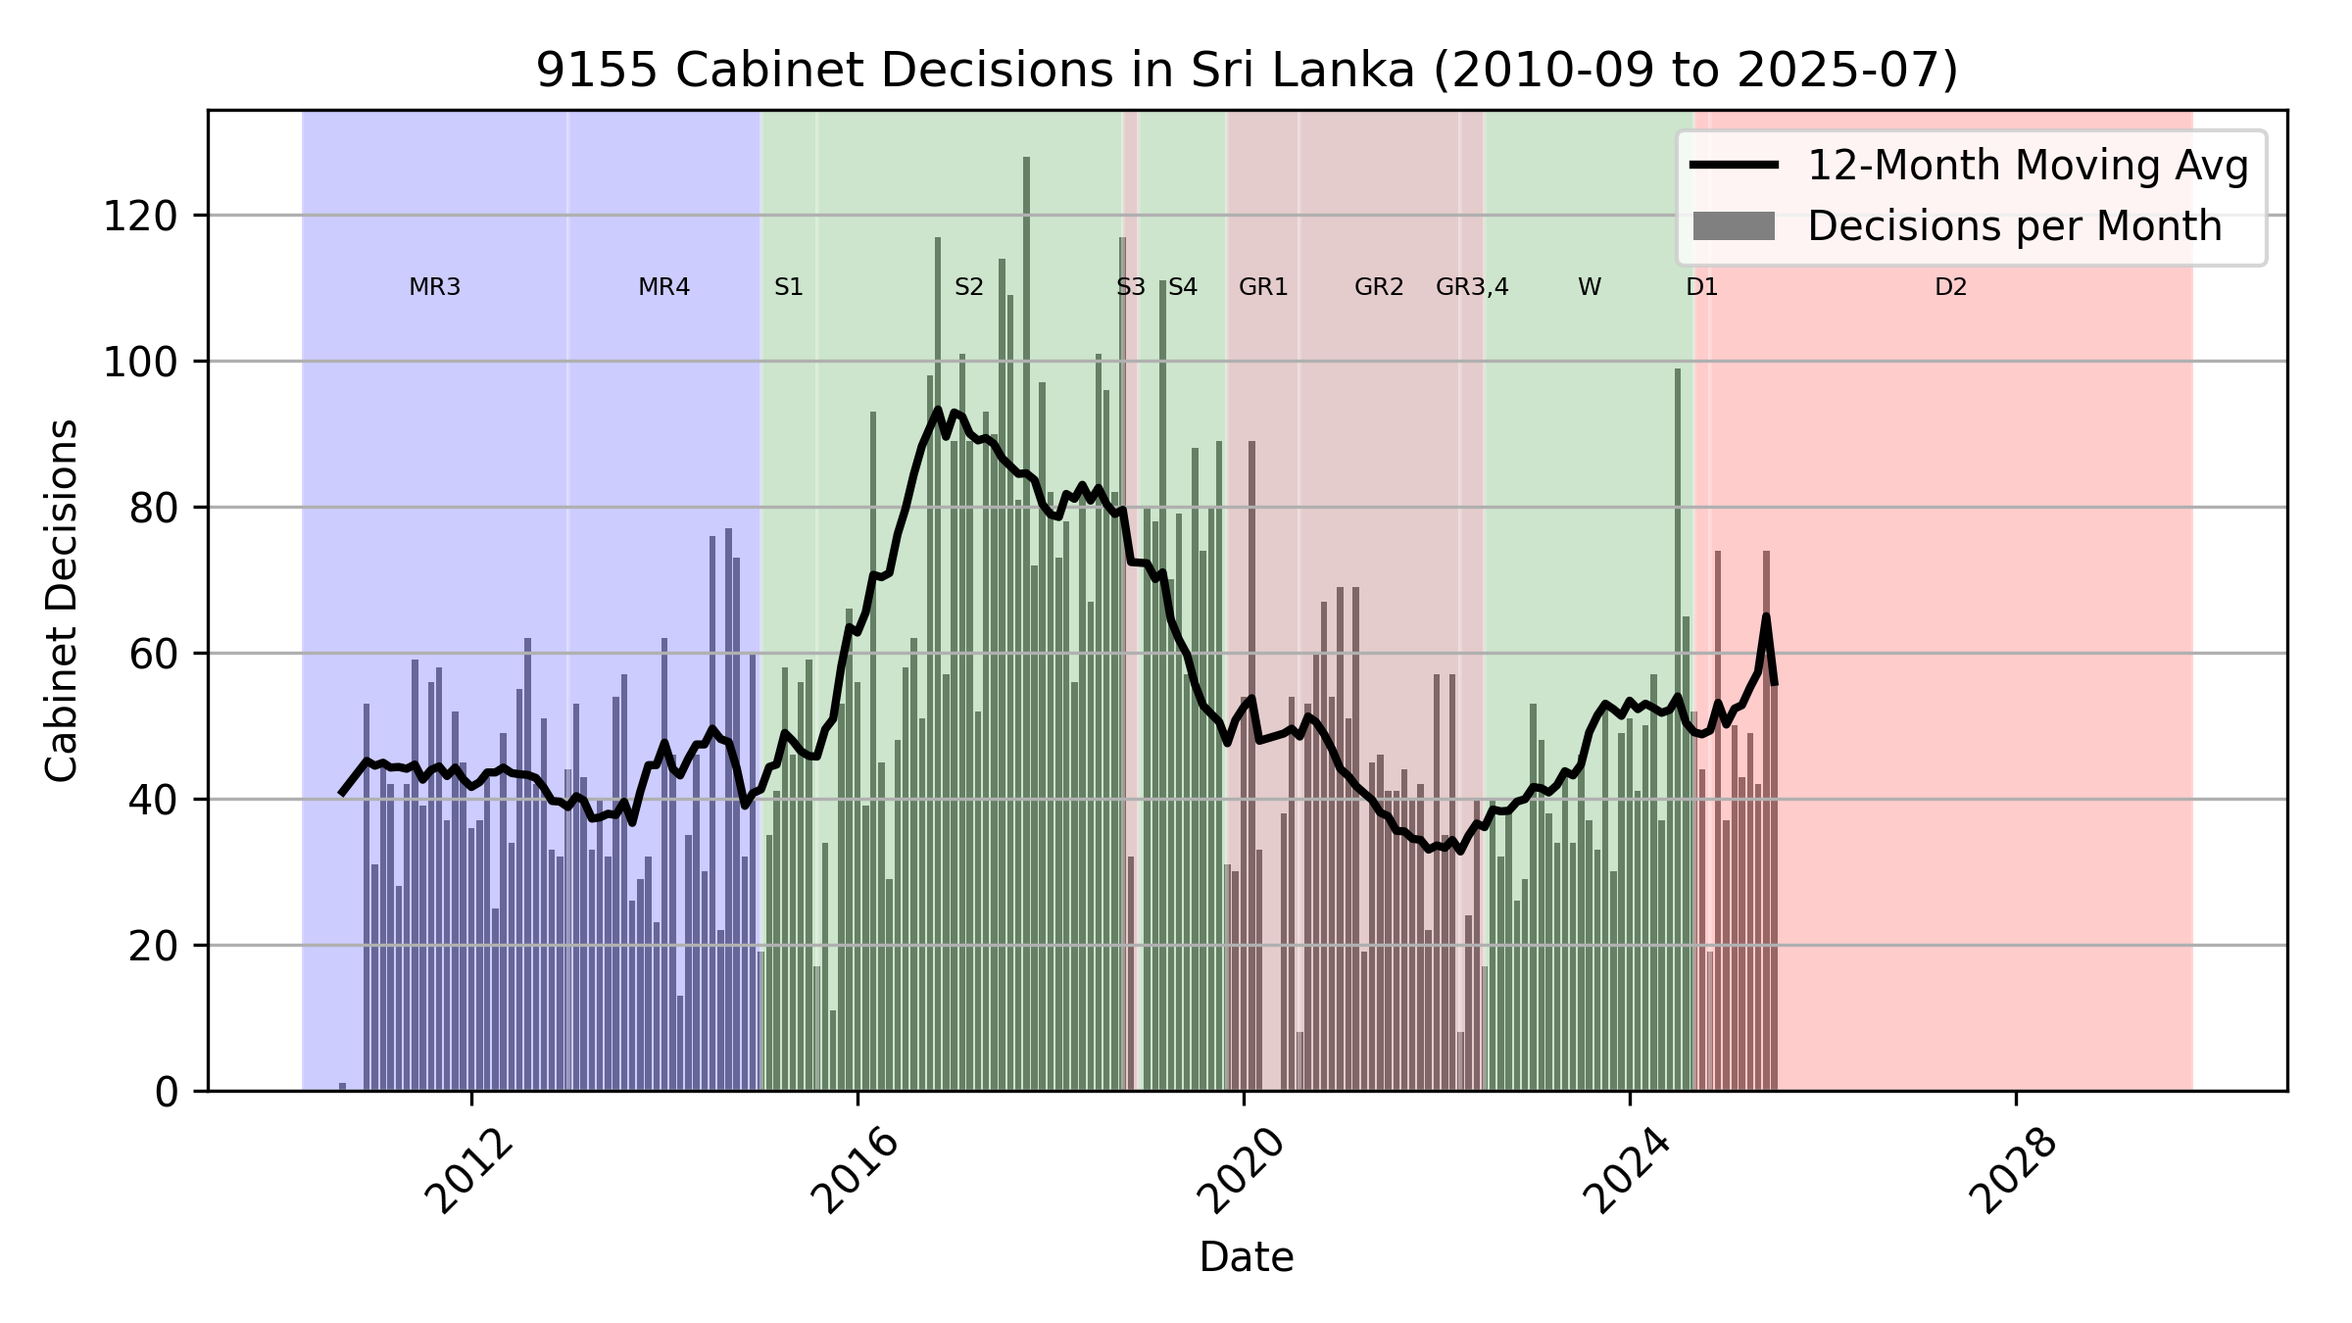
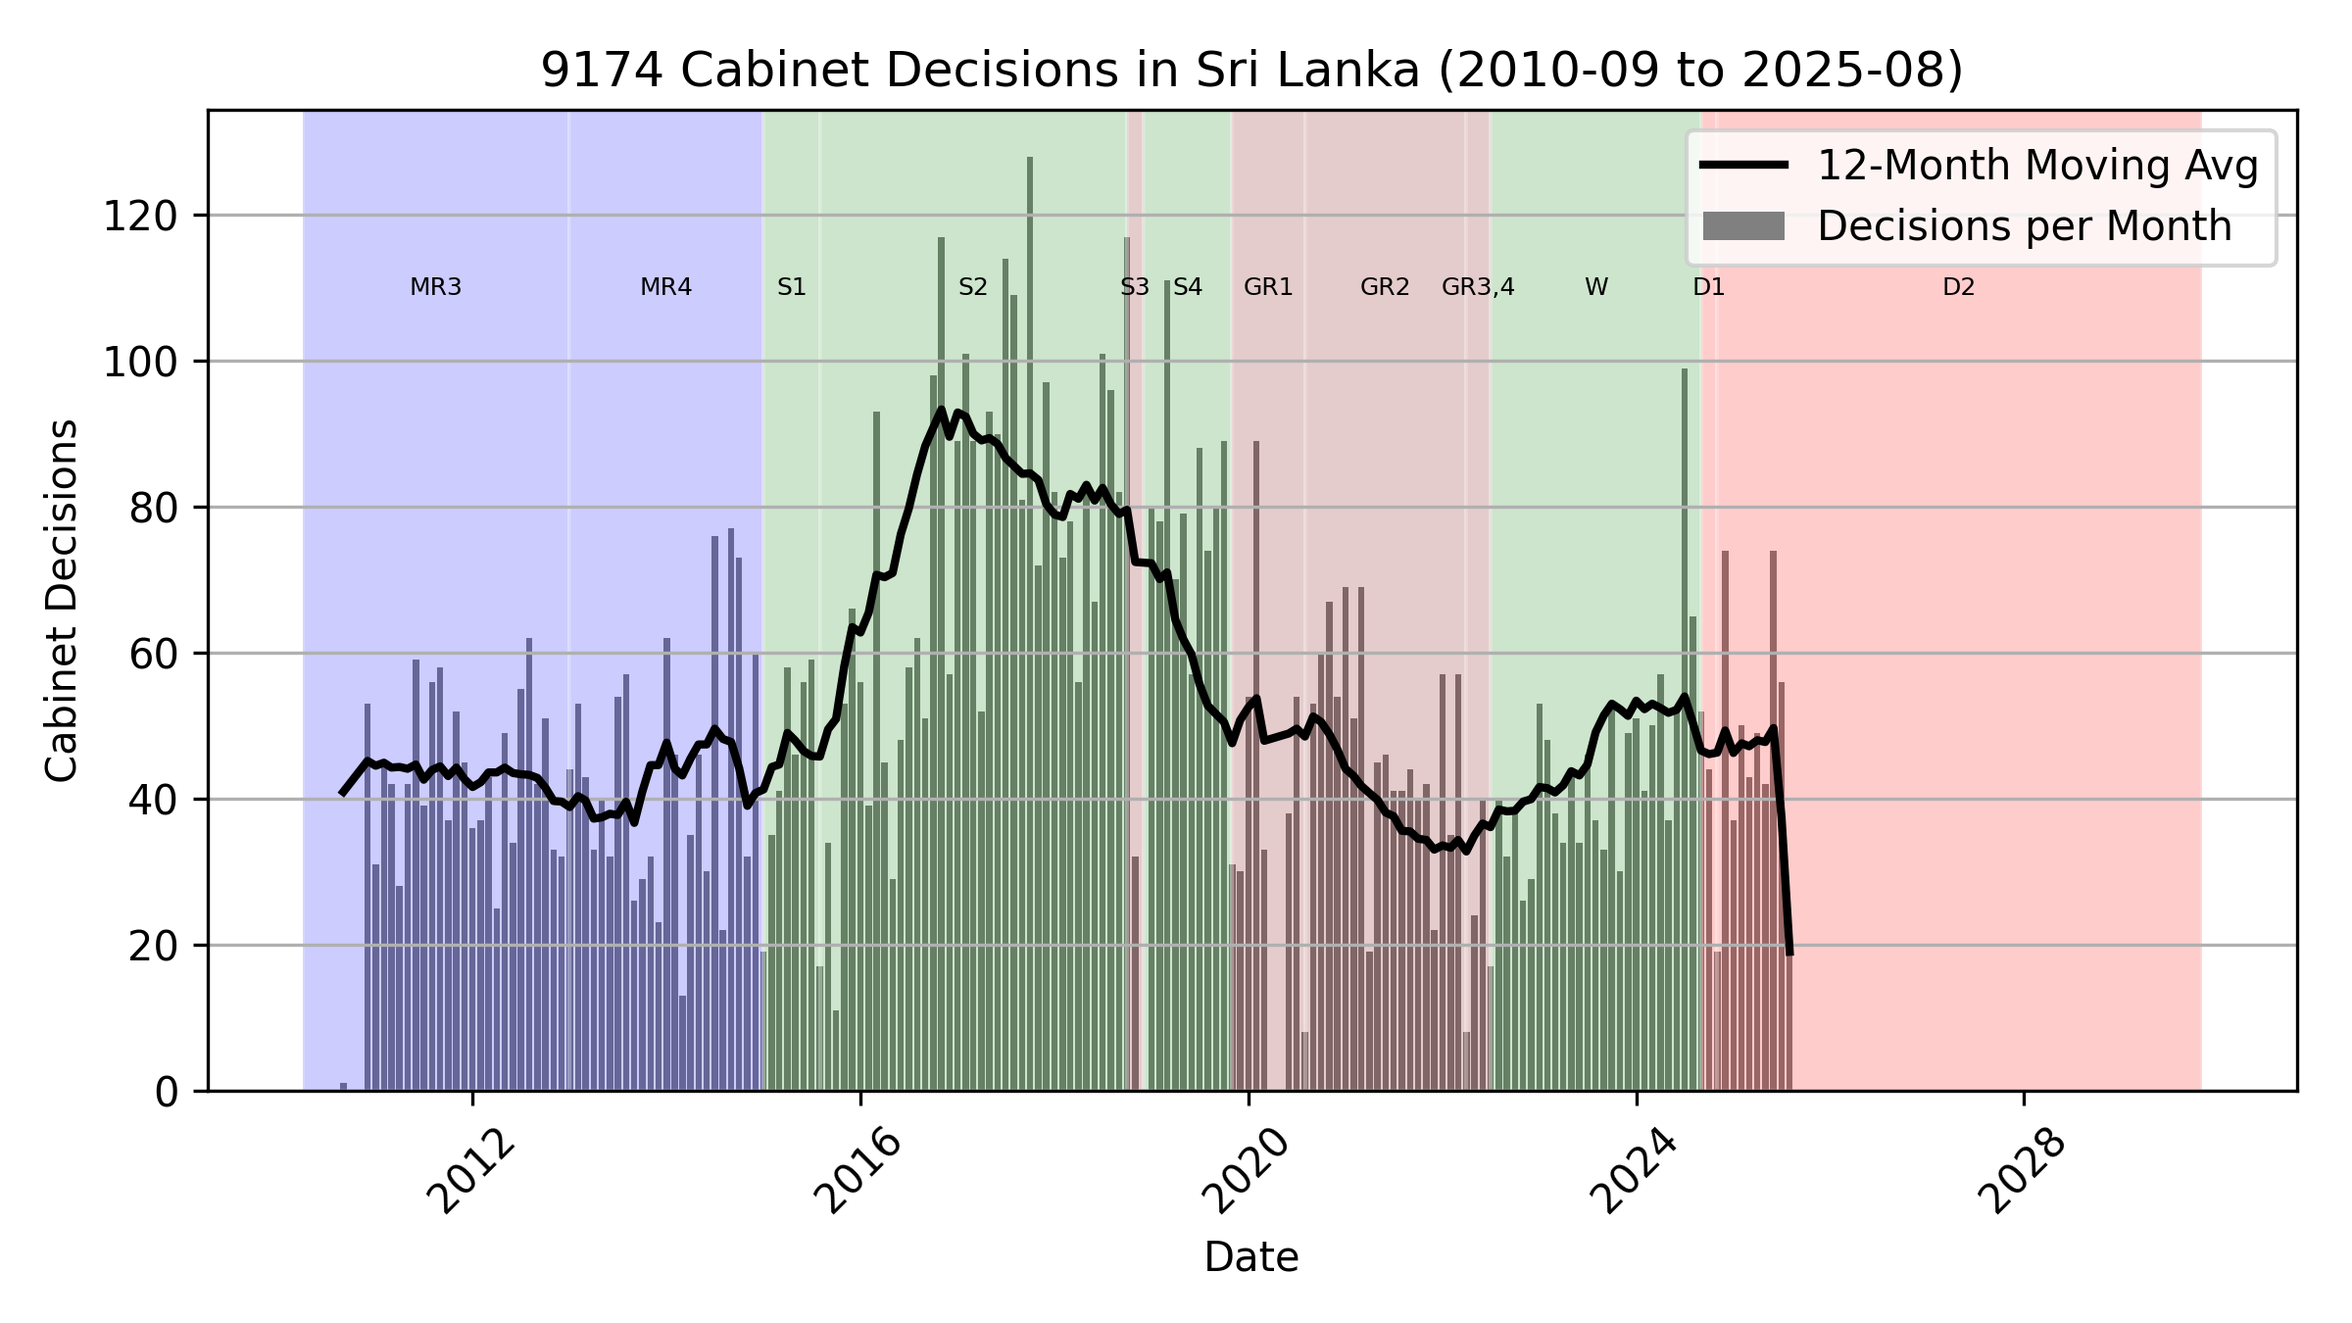
🤖 2025-08-11-1225 - pipeline.yml

diff --git a/README.md b/README.md
@@ -16,9 +16,9 @@ Sri Lanka.
 
 | | |
 |:--|--:|
-| Last Updated   | **2025-08-11 06:05:18**     |
-| nDecisions   | **9,155**     |
-| Latest   | **2025-07-21** |
+| Last Updated   | **2025-08-11 17:55:45**     |
+| nDecisions   | **9,174**     |
+| Latest   | **2025-08-04** |
 | Earliest | **2010-09-27** |
 
 ![Cabinet Decision Chart](images/cabinet_decision_chart.png)
@@ -27,57 +27,76 @@ Sri Lanka.
 
 ```json
 {
-  "date_str": "2025-07-21",
-  "decision_num": 17,
-  "title": "Signing a Memorandum of Understanding under the Seasonal Worker Programme for Agriculture and Fisheries in the Republic of Korea",
-  "source_url": "https://www.cabinetoffice.gov.lk/cab/index.php?option=com_content&view=article&id=16&Itemid=49&lang=en&dID=13323",
-  "decision_details": "- Approval has been granted at the Cabinet meetings held on 2025-02-19 and    2025‑07‑01, to implement a pilot project to facilitate the deployment of Sri Lankan workers under the E-8 visa category (seasonal workers) in the Republic of Korea and to hold discussions with the Korean counties who are interested for the same. Accordingly, as a result of the discussions held with the Boseong county of Korea, it has been agreed to recruit seasonal workers from Sri Lanka and enter into a Memorandum of Understanding for the same. The proposed Memorandum of Understanding will provide opportunity for Sri Lankans to work in agricultural villages in the Boseong County for a short period of time (up to a maximum of 8 months) under the Seasonal Worker Programme to earn an income and earn foreign exchange for the country. Accordingly, the proposal made by the Minister of Foreign Affairs, Foreign Employment and Tourism to sign the proposed Memorandum of Understanding with the Boseong County, was approved by the Cabinet.",
-  "key": "2025-07-21-017-656a"
+  "date_str": "2025-08-04",
+  "decision_num": 19,
+  "title": "Procurement for the supply of 10,000 Vials of Tenecteplase Injection 40mg Vials",
+  "source_url": "https://www.cabinetoffice.gov.lk/cab/index.php?option=com_content&view=article&id=16&Itemid=49&lang=en&dID=13342",
+  "decision_details": "- International Competitive Bids have been invited for the supply of 10,000 vials of Tenecteplase Injection 40mg Vial used for people with heart diseases. Three (03) bids have been submitted for the same. The proposal made by the Minister of Health and Mass Media to award the relevant procurement for a sum of USD 3.7 million to the lowest evaluated substantially responsive bidder, M/s. Boehringer Ingelheim India Pvt. Ltd., India (Manufacturer: Boehringer Ingelheim Pharma GmbH & Co‑KG, Germany), based on the recommendation of the Standing High-Level Procurement Committee, was approved by the Cabinet.",
+  "key": "2025-08-04-019-4678"
 }
 ```
 
-[JSON Source](data/cabinet_decisions/2025/2025-07/2025-07-21-017-656a.json)
+[JSON Source](data/cabinet_decisions/2025/2025-08/2025-08-04-019-4678.json)
 
 ## Example TSV Data
 
-[Complete TSV](data/cabinet_decisions.tsv) (9.36 MB)
+[Complete TSV](data/cabinet_decisions.tsv) (9.38 MB)
 
 | date_str | decision_num | title | source_url | decision_details | key |
 |:--|--:|:--|:--|:--|:--|
-| 2025-07-21 | 17 | Signing a Memorandum... | [https://www.cabineto...](https://www.cabinetoffice.gov.lk/cab/index.php?option=com_content&view=article&id=16&Itemid=49&lang=en&dID=13323) | - Approval has been ... | 2025-07-21-017-656a |
-| 2025-07-21 | 16 | Appointment to the P... | [https://www.cabineto...](https://www.cabinetoffice.gov.lk/cab/index.php?option=com_content&view=article&id=16&Itemid=49&lang=en&dID=13322) | - Mr. E.A.P.N. Ediri... | 2025-07-21-016-46a5 |
-| 2025-07-21 | 15 | Parliamentary submis... | [https://www.cabineto...](https://www.cabinetoffice.gov.lk/cab/index.php?option=com_content&view=article&id=16&Itemid=49&lang=en&dID=13321) | - It has been observ... | 2025-07-21-015-ec03 |
+| 2025-08-04 | 19 | Procurement for the ... | [https://www.cabineto...](https://www.cabinetoffice.gov.lk/cab/index.php?option=com_content&view=article&id=16&Itemid=49&lang=en&dID=13342) | - International Comp... | 2025-08-04-019-4678 |
+| 2025-08-04 | 18 | Establishment of a P... | [https://www.cabineto...](https://www.cabinetoffice.gov.lk/cab/index.php?option=com_content&view=article&id=16&Itemid=49&lang=en&dID=13341) | - A primary attentio... | 2025-08-04-018-663b |
+| 2025-08-04 | 17 | Amendment to the Nat... | [https://www.cabineto...](https://www.cabinetoffice.gov.lk/cab/index.php?option=com_content&view=article&id=16&Itemid=49&lang=en&dID=13340) | - It has been about ... | 2025-08-04-017-4dc3 |
 
-(These are the first 3 of **9,155** rows of the full TSV data)
+(These are the first 3 of **9,174** rows of the full TSV data)
 
 ## Last 3 Cabinet Decisions
 
-### 1) Signing a Memorandum of Understanding under the Seasonal Worker Programme for Agriculture and Fisheries in the Republic of Korea
+### 1) Procurement for the supply of 10,000 Vials of Tenecteplase Injection 40mg Vials
 
-*2025-07-21*, *#17*
+*2025-08-04*, *#19*
 
-[https://www.cabinetoffice.gov.lk/cab/index.php?option=com_content&view=article&id=16&Itemid=49&lang=en&dID=13323](https://www.cabinetoffice.gov.lk/cab/index.php?option=com_content&view=article&id=16&Itemid=49&lang=en&dID=13323)
+[https://www.cabinetoffice.gov.lk/cab/index.php?option=com_content&view=article&id=16&Itemid=49&lang=en&dID=13342](https://www.cabinetoffice.gov.lk/cab/index.php?option=com_content&view=article&id=16&Itemid=49&lang=en&dID=13342)
 
-Approval has been granted at the Cabinet meetings held on 2025-02-19 and    2025‑07‑01, to implement a pilot project to facilitate the deployment of Sri Lankan workers under the E-8 visa category (seasonal workers) in the Republic of Korea and to hold discussions with the Korean counties who are interested for the same. Accordingly, as a result of the discussions held with the Boseong county of Korea, it has been agreed to recruit seasonal workers from Sri Lanka and enter into a Memorandum of Understanding for the same. The proposed Memorandum of Understanding will provide opportunity for Sri Lankans to work in agricultural villages in the Boseong County for a short period of time (up to a maximum of 8 months) under the Seasonal Worker Programme to earn an income and earn foreign exchange for the country. Accordingly, the proposal made by the Minister of Foreign Affairs, Foreign Employment and Tourism to sign the proposed Memorandum of Understanding with the Boseong County, was approved by the Cabinet.
+International Competitive Bids have been invited for the supply of 10,000 vials of Tenecteplase Injection 40mg Vial used for people with heart diseases. Three (03) bids have been submitted for the same. The proposal made by the Minister of Health and Mass Media to award the relevant procurement for a sum of USD 3.7 million to the lowest evaluated substantially responsive bidder, M/s. Boehringer Ingelheim India Pvt. Ltd., India (Manufacturer: Boehringer Ingelheim Pharma GmbH & Co‑KG, Germany), based on the recommendation of the Standing High-Level Procurement Committee, was approved by the Cabinet.
 
-### 2) Appointment to the Post of Conservator General of Forests
+### 2) Establishment of a Presidential Task Force for the implementation of the Sri Lanka Tourism Development Programme
 
-*2025-07-21*, *#16*
+*2025-08-04*, *#18*
 
-[https://www.cabinetoffice.gov.lk/cab/index.php?option=com_content&view=article&id=16&Itemid=49&lang=en&dID=13322](https://www.cabinetoffice.gov.lk/cab/index.php?option=com_content&view=article&id=16&Itemid=49&lang=en&dID=13322)
+[https://www.cabinetoffice.gov.lk/cab/index.php?option=com_content&view=article&id=16&Itemid=49&lang=en&dID=13341](https://www.cabinetoffice.gov.lk/cab/index.php?option=com_content&view=article&id=16&Itemid=49&lang=en&dID=13341)
 
-Mr. E.A.P.N. Edirisinghe, who served as the Conservator General of Forests, has retired from the Public Service from 2025-07-08, on completion of the age of 60 years. Accordingly, taking into consideration the proposal made by the Minister of Environment, the Cabinet decided to appoint Mr. W.W.M.P.S.C. Palamakumbura, Special Grade Officer of the Sri Lanka Scientific Service, presently serving as the Additional Conservator General of Forests (Forest Protection, Operations and Management) in the Department of Forest Conservation, to the vacant post of Conservator General of Forests, with immediate effect.
+A primary attention of the Government has been focused on taking necessary measures for the development of the tourism industry in creating a prosperous country under "A Modernized Tourist Industry - An Attractive Destination", in accordance with the current Government policy statement. The need to establish a Presidential Task Force has been identified, enabling to carry out these tasks more effectively and efficiently. Accordingly, the proposal made by the Hon. President to establish a Presidential Task Force under the Chairmanship of the Minister of Foreign Affairs, Foreign Employment and Tourism, with the representations of the relevant ministries, institutions and various sectors of the tourism field in order to achieve the rapid development goals and attain a high level substantial growth in the tourism industry, was approved by the Cabinet.
 
-### 3) Parliamentary submission of Regulations made under section 41, to be read with section 31 of the Sports Law, No.25 of 1973
+### 3) Amendment to the National Child Protection Authority Act, No.50 of 1998
 
-*2025-07-21*, *#15*
+*2025-08-04*, *#17*
 
-[https://www.cabinetoffice.gov.lk/cab/index.php?option=com_content&view=article&id=16&Itemid=49&lang=en&dID=13321](https://www.cabinetoffice.gov.lk/cab/index.php?option=com_content&view=article&id=16&Itemid=49&lang=en&dID=13321)
+[https://www.cabinetoffice.gov.lk/cab/index.php?option=com_content&view=article&id=16&Itemid=49&lang=en&dID=13340](https://www.cabinetoffice.gov.lk/cab/index.php?option=com_content&view=article&id=16&Itemid=49&lang=en&dID=13340)
 
-It has been observed that various ambiguities have arisen due to the frequent amendment of the Sports Regulations issued in terms of the powers vested with the Minister in-charge of Sports by the provisions of the Sports Law, No. 25 of 1973 and that the independence and impartiality that should prevail in sports are undermined by the politicization of sports. Therefore, with the objective of preventing fraud and corruption in sports and carrying forward sports in an independent and impartial manner, the National Sports Associations Regulations No.01 of 2025 have been made and published in the Gazette Extraordinary Notification No.2437/24 dated 2025-05-21 regarding the administration, functions, powers, duties and general provisions of the National Sports Associations. The proposal made by the Minister of Youth Affairs and Sports to submit the said Regulations to Parliament for approval, was approved by the Cabinet.
+It has been about 25 years since the National Child Protection Authority Act, No. 50 of 1998 was passed. Due to the social, economic, political and cultural transformations that have taken place during this period, child abuse and violence against children have become complex in nature. Therefore, the necessity of amending the existing laws in a manner that suits the current needs to prevent and respond to all forms of abuse against children has been identified. Accordingly, the proposal made by the Minister of Women and Child Affairs to instruct the Legal Draftsman to prepare a Bill to amend the National Child Protection Authority Act, No.50 of 1998, incorporating the amendments identified in order to perform the functions of the said Act in a more broad, meaningful and efficient manner, was approved by the Cabinet.
 
-## All Cabinet Decisions (9,155)
+## All Cabinet Decisions (9,174)
 
+- [2025-08-04] [Procurement for the supply of 10,000 Vials of Tenecteplase Injection 40mg Vials](data/cabinet_decisions/2025/2025-08/2025-08-04-019-4678.json)
+- [2025-08-04] [Establishment of a Presidential Task Force for the implementation of the Sri Lanka Tourism Development Programme](data/cabinet_decisions/2025/2025-08/2025-08-04-018-663b.json)
+- [2025-08-04] [Amendment to the National Child Protection Authority Act, No.50 of 1998](data/cabinet_decisions/2025/2025-08/2025-08-04-017-4dc3.json)
+- [2025-08-04] [Implementation of the Projects on Development of Sports Infrastructure Facilities](data/cabinet_decisions/2025/2025-08/2025-08-04-016-a279.json)
+- [2025-08-04] [Procurement for the supply of 50 Polyaxial MRI compatible (Titanium/Cobolt-Chrome) Lumber pedicle screws and 20 instrument set for posterior thoracic Thoraco-lumber fusion (for scoliosis correction)](data/cabinet_decisions/2025/2025-08/2025-08-04-015-871d.json)
+- [2025-08-04] [Procurement for the supply of 450,000 prefilled Syringes/Vials of Enoxaparin Sodium Injection 6,000IU in 0.6ml](data/cabinet_decisions/2025/2025-08/2025-08-04-014-1592.json)
+- [2025-08-04] [Procurement for the supply of 900,000 prefilled Syringes/Vials of Enoxaparin Sodium Injection 4,000IU in 0.4ml](data/cabinet_decisions/2025/2025-08/2025-08-04-013-183e.json)
+- [2025-08-04] [Re-implementation of the housing projects of the Colombage Mawatha and Torrington Avenue under the Urban Regeneration Project](data/cabinet_decisions/2025/2025-08/2025-08-04-012-3662.json)
+- [2025-08-04] [Purchasing a Dredger for the Ceylon Fishery Harbours Corporation](data/cabinet_decisions/2025/2025-08/2025-08-04-011-8840.json)
+- [2025-08-04] [Development of the Pettah Central Bus Stand under the 'Clean Sri Lanka' Programme](data/cabinet_decisions/2025/2025-08/2025-08-04-010-f144.json)
+- [2025-08-04] [Signing of a Memorandum of Understanding between Sri Lanka Institute of Biotechnology (Pvt) Ltd. and the University of Illinois of the United States of America](data/cabinet_decisions/2025/2025-08/2025-08-04-009-db1d.json)
+- [2025-08-04] [Revising the coverage limit of Group Insurance policy for the Hon. Members of Parliament](data/cabinet_decisions/2025/2025-08/2025-08-04-008-3932.json)
+- [2025-08-04] [Establishment of an Inter-Ministerial Standing Committee under the Convention on the Elimination of All Forms of Discrimination against Women](data/cabinet_decisions/2025/2025-08/2025-08-04-007-2b6a.json)
+- [2025-08-04] [Formulating a National Policy and Action Plan on Reconciliation and Coexistence](data/cabinet_decisions/2025/2025-08/2025-08-04-006-5972.json)
+- [2025-08-04] [Appointment of a new Delimitation Committee to review the recommendations of the Delimitation Committee held in the years 2012 and 2021 and submit recommendations](data/cabinet_decisions/2025/2025-08/2025-08-04-005-5f1c.json)
+- [2025-08-04] [Calling for Investments Proposals for the land called Chalmer's Granary located at Olcott Mawatha, Colombo Fort owned by the Urban Development Authority](data/cabinet_decisions/2025/2025-08/2025-08-04-004-fae1.json)
+- [2025-08-04] [Creation of the Virtual City in Kandy under the Virtual City Creation Project](data/cabinet_decisions/2025/2025-08/2025-08-04-003-5583.json)
+- [2025-08-04] [Granting 'Approved Enterprise' status to import Companies to re-export selected Spices](data/cabinet_decisions/2025/2025-08/2025-08-04-002-583d.json)
+- [2025-08-04] [Statement on Financial Performance of the Government for the Second Quarter 2025](data/cabinet_decisions/2025/2025-08/2025-08-04-001-7aee.json)
 - [2025-07-21] [Signing a Memorandum of Understanding under the Seasonal Worker Programme for Agriculture and Fisheries in the Republic of Korea](data/cabinet_decisions/2025/2025-07/2025-07-21-017-656a.json)
 - [2025-07-21] [Appointment to the Post of Conservator General of Forests](data/cabinet_decisions/2025/2025-07/2025-07-21-016-46a5.json)
 - [2025-07-21] [Parliamentary submission of Regulations made under section 41, to be read with section 31 of the Sports Law, No.25 of 1973](data/cabinet_decisions/2025/2025-07/2025-07-21-015-ec03.json)
